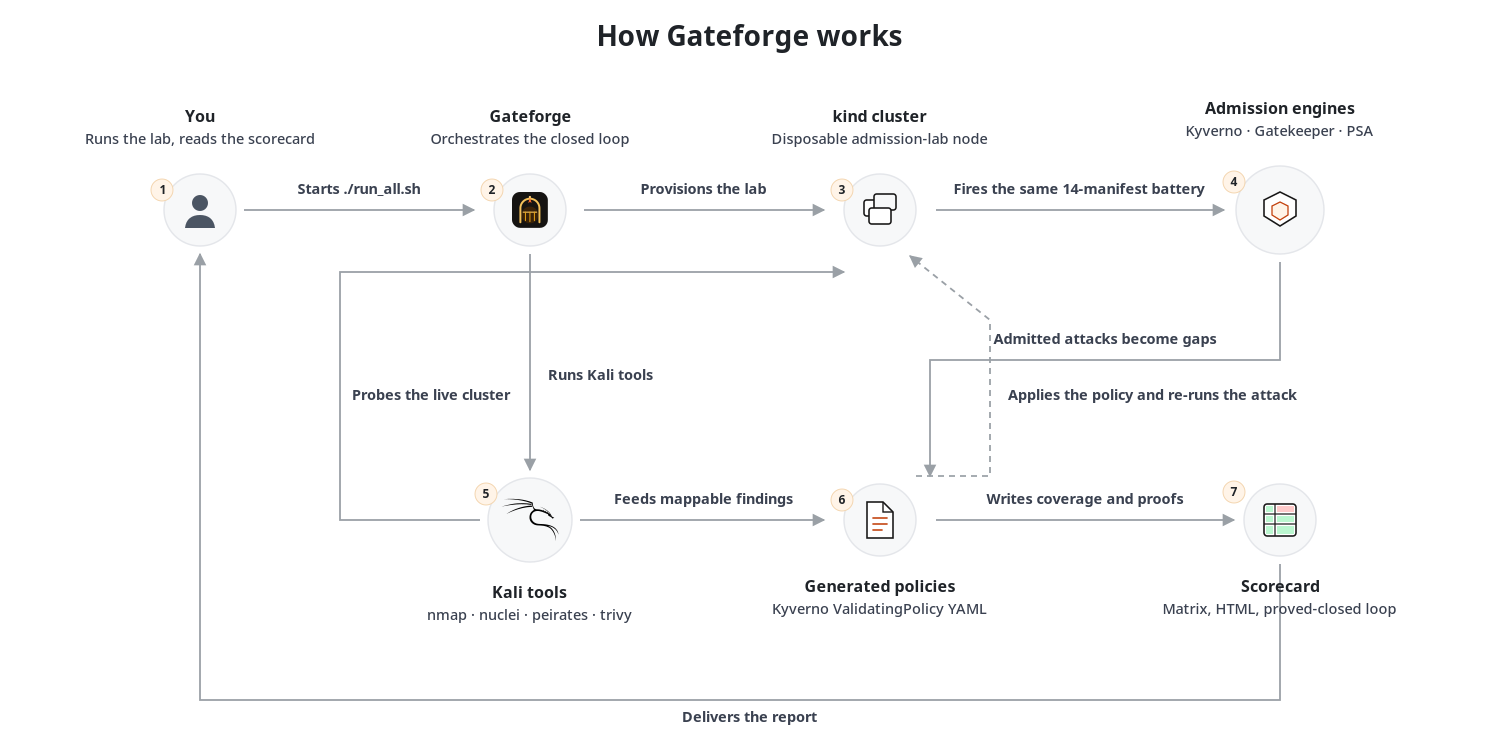
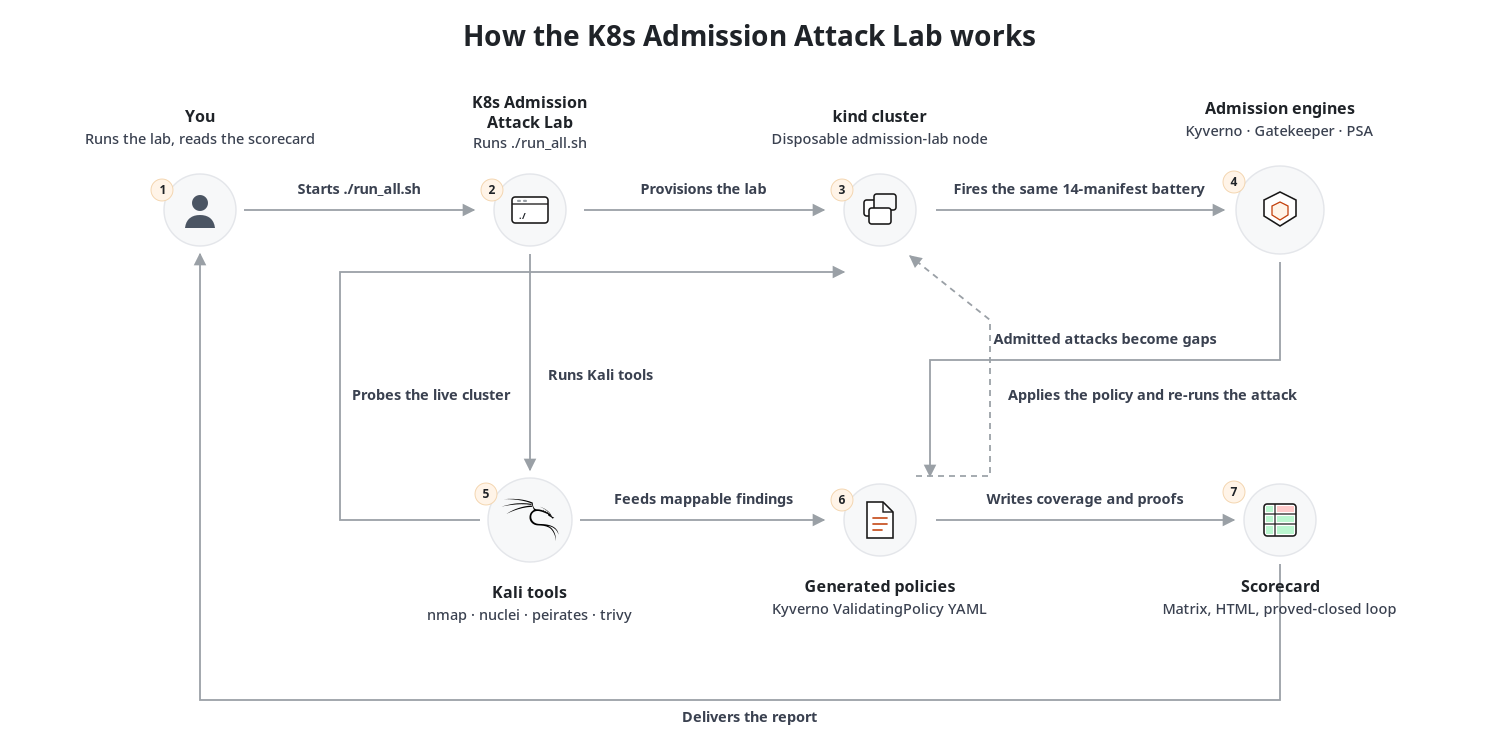
Rename the display name to K8s Admission Attack Lab
Use K8s Admission Attack Lab in the README, architecture figure,
skills, and bot template. Drop the Gateforge logo from the diagram
and leave the Kali dragon only on the Kali tools node. The GitHub
repo stays ritvikindupuri/Gateforge.

Changed region(s): [[0.3067, 0.0311, 0.7053, 0.0622], [0.3067, 0.1243, 0.4293, 0.2176], [0.3373, 0.2486, 0.368, 0.3108]]

diff --git a/README.md b/README.md
@@ -1,6 +1,6 @@
-<h1 align="center">Gateforge</h1>
+<h1 align="center">K8s Admission Attack Lab</h1>
 
-<p align="center">Prove your Kubernetes admission gate actually blocks the attack</p>
+<p align="center">A disposable lab that checks whether Kubernetes admission controllers block the attack at deploy time</p>
 
 <p align="center">
   <img alt="Kyverno" src="https://img.shields.io/badge/Kyverno-ValidatingPolicy-444">
@@ -13,20 +13,20 @@
 
 ## What it is
 
-Gateforge is a Kali-driven admission-time attack loop for Kubernetes. It fires the same 14-manifest battery at Kyverno, OPA Gatekeeper, and built-in Pod Security Admission, one engine at a time. Whatever the stock gate admits becomes a Kyverno ValidatingPolicy, and the same attack is re-run until the webhook blocks it.
+The K8s Admission Attack Lab is a Kali-driven admission-time test for Kubernetes. It fires the same 14-manifest battery at Kyverno, OPA Gatekeeper, and built-in Pod Security Admission, one engine at a time. Whatever the stock gate admits becomes a Kyverno ValidatingPolicy, and the same attack is re-run until the webhook blocks it.
 
 This is a policy-gate test, not a runtime detect-and-remediate tool.
 
 **Guardrails:** disposable `kind` lab only; admission-time testing only (no host compromise, no peirates hostPath-cron); one engine at a time (~4 GiB RAM); tokens and kubeconfigs stay on the lab host; generated policies are lab starting points, not production drop-ins.
 
-## How Gateforge works
+## How the K8s Admission Attack Lab works
 
 <p align="center">
-  <img src="assets/architecture.png" alt="How Gateforge works" width="900">
+  <img src="assets/architecture.png" alt="How the K8s Admission Attack Lab works" width="900">
 </p>
 
 1. **You** start the lab and read the scorecard.
-2. **Gateforge** (`./run_all.sh`) installs missing Kali tools, stands up the cluster if needed, and drives the loop.
+2. **K8s Admission Attack Lab** (`./run_all.sh`) installs missing Kali tools, stands up the cluster if needed, and drives the loop.
 3. **kind cluster** `admission-lab` is a disposable single-node Kubernetes lab (`kindest/node:v1.31.0` by default).
 4. **Admission engines** — Kyverno restricted PSS (Enforce), Gatekeeper PSP library constraints, and built-in PSA `enforce=restricted` — each see the same battery, one at a time.
 5. **Kali tools** probe the live cluster: nmap on 6443, 10250, 10255, 2379, and NodePorts; nuclei Kubernetes templates; peirates from a test pod; trivy on battery images.
@@ -35,15 +35,15 @@ This is a policy-gate test, not a runtime detect-and-remediate tool.
 
 ## Setup instructions
 
-You can run Gateforge as a CLI on a disposable lab, or share it as a Grok Bot once the public template link is published.
+You can run this lab from the CLI on a disposable host. Sharing it as a Grok Bot is optional, and the public template link is not published yet.
 
-### 1. Get the bot
+### 1. Get the bot (optional)
 
 **TODO:** The public Bot template link will be added after CreateBotShareJson publishes it. Until then, clone this repo and run the CLI (step 3).
 
 Grok Bot shares a Bot template link, not a JSON import. The recipe is [`template/gateforge-template.json`](template/gateforge-template.json). To build the bot by hand:
 
-1. Name it **Gateforge** and paste the profile description from the JSON.
+1. Name it **K8s Admission Attack Lab** and paste the profile description from the JSON.
 2. Add the four memories: lab-only admission testing, closed-loop workflow, honest Kali-tool reporting, lean usage.
 3. Add [`skills/gateforge-lab/SKILL.md`](skills/gateforge-lab/SKILL.md) and [`skills/gateforge-getting-started/SKILL.md`](skills/gateforge-getting-started/SKILL.md). The getting-started skill runs first.
 4. Leave routines and plugins empty.
@@ -60,6 +60,8 @@ You need a disposable lab host you own — Kali Rolling, or any machine with Doc
 Do not point this at a production, shared, or third-party cluster.
 
 ### 3. Run the lab
+
+The GitHub repo is still [ritvikindupuri/Gateforge](https://github.com/ritvikindupuri/Gateforge).
 
 ```bash
 git clone https://github.com/ritvikindupuri/Gateforge.git
@@ -85,18 +87,18 @@ Lab scorecards and a write-up of a disposable run are in [TEST_RESULTS.md](TEST_
 
 ## What already exists
 
-Gateforge is not a generic cluster scanner, and it is not a runtime defender.
+This lab is not a generic cluster scanner, and it is not a runtime defender.
 
-| Tool | What it does | Where Gateforge differs |
+| Tool | What it does | Where this lab differs |
 |------|----------------|-------------------------|
 | kube-hunter, peirates | Find or abuse cluster issues, then stop at the finding. | Findings are re-fired at live admission webhooks, then closed with a generated policy and a re-proof. |
-| Kubescape, Polaris | Scan posture and configuration. | Gateforge applies workloads and records whether the webhook admitted them. |
-| Kyverno Chainsaw | Tests policies you already wrote. | Gateforge tests engines you have not fully covered, then writes the missing policy. |
-| Policy Reporter | Visualizes policy results. | Gateforge produces the matrix and the proof, not only a view. |
+| Kubescape, Polaris | Scan posture and configuration. | This lab applies workloads and records whether the webhook admitted them. |
+| Kyverno Chainsaw | Tests policies you already wrote. | This lab tests engines you have not fully covered, then writes the missing policy. |
+| Policy Reporter | Visualizes policy results. | This lab produces the matrix and the proof, not only a view. |
 | IronClaw `--emit-policy`, Valqore `generate_policy` | Emit YAML from static scans. | Closest cousins. They do not run the same live battery against Kyverno, Gatekeeper, and PSA, then re-apply the admitted attack to the live webhook. |
 | K8sGPT policy drafts | Assistant-style dry-run YAML. | No multi-engine live re-proof in this workflow. |
 
-KARMA, a related project by the same author, is a runtime Kubernetes attack / detect / remediate loop. Gateforge is the deploy-time gate.
+KARMA, a related project by the same author, is a runtime Kubernetes attack / detect / remediate loop. The K8s Admission Attack Lab is the deploy-time gate.
 
 ## MITRE ATT&CK for Containers
 
@@ -118,7 +120,7 @@ Applying a workload through admission is itself [T1610 Deploy Container](https:/
 
 ## Disclaimer
 
-Gateforge is an authorized lab tool for disposable clusters you own. Use it only where you have permission. It is not a product assessment of Kyverno, Gatekeeper, or Kubernetes, and a 100% lab score is not a claim that a production cluster is safe.
+This lab is for disposable clusters you own. Use it only where you have permission. It is not a product assessment of Kyverno, Gatekeeper, or Kubernetes, and a 100% lab score is not a claim that a production cluster is safe.
 
 Do not run this against production, shared, or third-party clusters. Do not use it to attack systems you do not own. The attack manifests, peirates probes, and generated policies exist to test admission webhooks, not to compromise hosts. The author and contributors are not responsible for misuse.
 

diff --git a/skills/gateforge-lab/SKILL.md b/skills/gateforge-lab/SKILL.md
@@ -1,17 +1,17 @@
 ---
 name: gateforge-lab
 description: >-
-  Use this when running or explaining the Gateforge admission-time attack
-  loop: ./run_all.sh, the three engines, Kali tools, and the closed-loop
+  Use this when running or explaining the K8s Admission Attack Lab:
+  ./run_all.sh, the three engines, Kali tools, and the closed-loop
   policy proof.
 ---
-# Gateforge lab workflow
+# K8s Admission Attack Lab workflow
 
 Lab-only. Disposable `kind` cluster, admission-time policy testing only. Do not target production, shared, or third-party clusters. Do not compromise the host. Do not run peirates hostPath-cron or node reverse-shell modules. Do not print service-account tokens or kubeconfigs.
 
 ## Run
 
-From the repo root on a lab host with Docker, kind, kubectl, and helm (~4 GiB RAM; one engine at a time):
+From the repo root on a lab host with Docker, kind, kubectl, and helm (~4 GiB RAM; one engine at a time). The GitHub repository is still `ritvikindupuri/Gateforge`.
 
 ```bash
 sudo ./run_all.sh
@@ -51,7 +51,7 @@ Mappable findings can enter the same policy generator as the battery gaps.
 ## Closed loop
 
 1. Admitted attacks are gaps.
-2. Gateforge writes Kyverno `ValidatingPolicy` (CEL) YAML under `policies/suggested/`.
+2. The lab writes Kyverno `ValidatingPolicy` (CEL) YAML under `policies/suggested/`.
 3. Those policies are applied.
 4. The same attack is re-run, including under a Kyverno + generated column.
 

diff --git a/skills/gateforge-getting-started/SKILL.md b/skills/gateforge-getting-started/SKILL.md
@@ -1,18 +1,19 @@
 ---
 name: gateforge-getting-started
 description: >-
-  Use this as the first conversation of an imported Gateforge bot.
+  Use this as the first conversation of an imported K8s Admission Attack Lab
+  bot.
 ---
 # Getting started
 
-Say in one line: I run a Kali-driven Kubernetes admission-time attack loop — the same workload battery against Kyverno, Gatekeeper, and built-in PSA, then I generate a policy for what was admitted and re-run the attack to prove the gate blocks it. Lab-only.
+Say in one line: I run the K8s Admission Attack Lab, a Kali-driven Kubernetes admission-time test — the same workload battery against Kyverno, Gatekeeper, and built-in PSA, then I generate a policy for what was admitted and re-run the attack to see whether the gate blocks it. Lab-only.
 
 Nothing to connect for the CLI path. No GitHub, cloud, or cluster credentials are required to start.
 
 Ask one at a time:
 
 1. Do you have a disposable lab you own and are authorized to use — a host with Docker and kind, or a Kali lab? (Default: we will use a local `kind` cluster named `admission-lab`. Do not point this at production or anyone else's cluster.)
-2. Is the Gateforge repo already cloned on that lab host, or should we clone it now?
+2. Is the lab repo already cloned on that host, or should we clone it now? The repository is still `ritvikindupuri/Gateforge`.
 
 Then:
 
